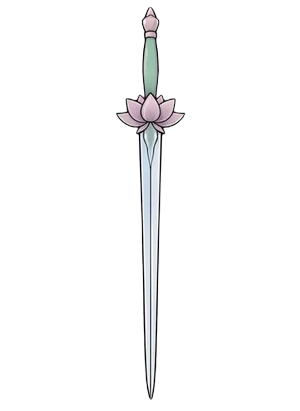
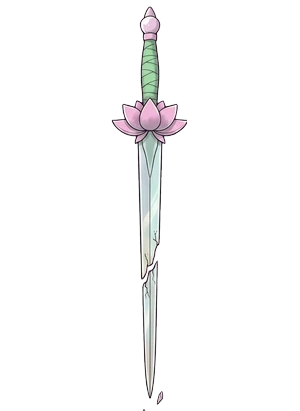
v0.8.95 蓮花劍、蝠翼劍斷格重生
Claude-Session: https://claude.ai/code/session_019t36Gq3Jo5g2p9E4Pz5RxE

Changed region(s): [[0.36, 0.0, 0.63, 1.0]]

diff --git a/index.html b/index.html
@@ -2077,7 +2077,7 @@
       "use strict";
 
       /* v0.7.8 圖片快取：assets/ 圖片網址一律加 ?v=版本，更新美術後不會讀到手機瀏覽器的舊快取（每次改圖就遞增 ASSET_VER） */
-      const ASSET_VER = "0.8.94";
+      const ASSET_VER = "0.8.95";
       (function () {
         const d = Object.getOwnPropertyDescriptor(HTMLImageElement.prototype, "src");
         if (!d || !d.set) return;

diff --git a/src/10_boot.js b/src/10_boot.js
@@ -3,7 +3,7 @@
       "use strict";
 
       /* v0.7.8 圖片快取：assets/ 圖片網址一律加 ?v=版本，更新美術後不會讀到手機瀏覽器的舊快取（每次改圖就遞增 ASSET_VER） */
-      const ASSET_VER = "0.8.94";
+      const ASSET_VER = "0.8.95";
       (function () {
         const d = Object.getOwnPropertyDescriptor(HTMLImageElement.prototype, "src");
         if (!d || !d.set) return;

diff --git a/HANDOFF.md b/HANDOFF.md
@@ -1,4 +1,4 @@
-# 《一念飛仙外傳-墨塵傳》交接文件（對應版本 v0.8.94（M2 進行中；M0 分檔＋M1 聲音第一批））
+# 《一念飛仙外傳-墨塵傳》交接文件（對應版本 v0.8.95（M2 進行中；M0 分檔＋M1 聲音第一批））
 
 > 新對話開始時：上傳這份文件，第一句話寫「請先讀交接文件，照文件的流程繼續」。
 > Claude 要先把倉庫掛進工作階段（add_repo：mashin-84/mochen，push 權限）、clone，再讀 `index.html` 的關鍵段落。
@@ -611,6 +611,8 @@
 - 全部 canvas 字型（浮字、危、決、煞氣預警、處決大字備用、開場字、舊劇情）改用實際字型名 `'Noto Serif TC', 'Songti TC', 'PMingLiU', serif`，字回到原設定大小（字級數字未改）。HTML 裡的 `var(--font-serif)` 不受影響。
 - 「危」字：有動作表的 Boss 改放在圖上頭頂上方 28px（`opaqueTop` 掃當格最上緣不透明列、快取在圖上；`Boss._headY` 平滑避免換格跳動，`loadStage` 清空）；沒有動作表的 Boss 維持原位置。
 - 待觀察：浮字變清楚後畫面字變多，若覺得吵再減量。
+
+**v0.8.95 蓮花劍（fs2）、蝠翼劍（fs4）斷格重生**：`fs24`、`fs44` 換成真的斷成兩截的圖（沿用完整劍的縮放與劍首對齊，最下方碎片因畫布高度被裁掉）；v0.8.93 記的「斷格沒斷」已解決。
 
 **v0.8.94 第 4 關攻擊特效與預警改生圖**（使用者提醒：能不用程式畫就不要）：`assets/fx/boss4fx3.webp`（黑底 4×4，列 0 驚鴻斬弧；列 1 前 2 格環劍旋斬、後 2 格劍魂突進拖尾；列 2 前 2 格掃地劍氣、後 2 格橫穿／合圍拖尾；列 3 前 2 格插地漣漪、後 2 格擊落碎裂）與 `boss4warn.webp`（列 0 劍落紅線、列 1 地面危險橢圓、列 2 橫掃預警條、列 3 合圍箭頭；每列 4 格由淡到強，依前搖進度選格）。引擎：`spawnFx`／`spawnMoveFx` 新增 `c0`（起始格）、`nf`（播幾格）；`S4.arcArt = "boss4fx3"` 關掉程式刀弧；`53_parts.js` 新增 `warnDraw`／`warnArt`（地面預警與劍雨圈改畫生圖，圖沒載到才回退舊程式畫法）、`plantFx`。古靈四招已掛 fxAct／fxHit。劍陣預警原本沒有畫（只畫 P.act／side／rain），現在 P.facts 也畫。未改：封印環與插地劍光暈（仍用 boss4fx 生圖）、核心突進圖（boss4fx2 列 3 第 2、3 格）未接。
 
